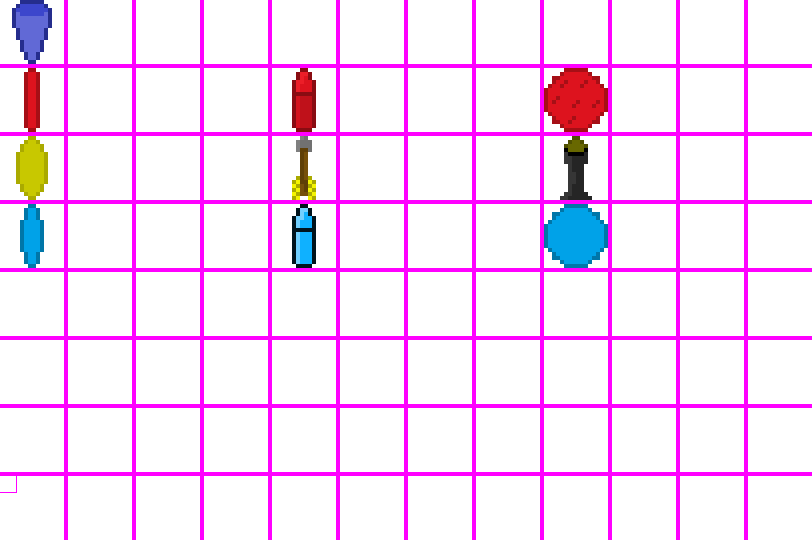
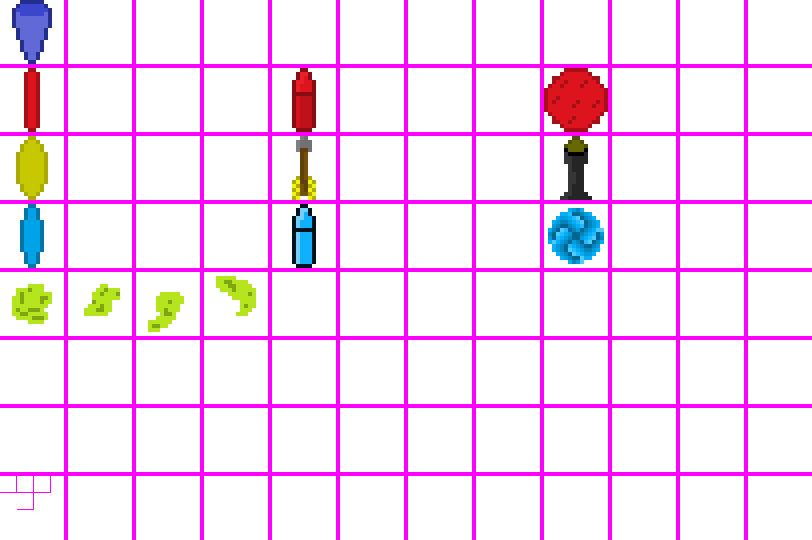
zombie attacks

diff --git a/app/index.html b/app/index.html
@@ -64,6 +64,7 @@
 	<script src="src/gameplay/entities/projectiles/weapon8B1Projectile.js"></script>
 	<script src="src/gameplay/entities/projectiles/weapon9B2Projectile.js"></script>
 	<script src="src/gameplay/entities/projectiles/weapon10B3Projectile.js"></script>
+	<script src="src/gameplay/entities/projectiles/monsterProjectiles/zombieBileProjecile.js"></script>
 	<script src="src/gameplay/entities/projectiles/projectileSpawner.js"></script>
 	<script src="src/gameplay/entities/particles/_particle.js"></script>
 	<script src="src/gameplay/entities/particles/bloodParticle.js"></script>
@@ -83,17 +84,19 @@
 	<script src="src/gameplay/entities/items/weapon.js"></script>
 	<script src="src/gameplay/entities/items/itemFactory.js"></script>
 	<!--	actions		-->
-	<script src="src/gameplay/actions/_weaponAction.js"></script>
-	<script src="src/gameplay/actions/weaponAction1N.js"></script>
-	<script src="src/gameplay/actions/weaponAction2R1.js"></script>
-	<script src="src/gameplay/actions/weaponAction3R2.js"></script>
-	<script src="src/gameplay/actions/weaponAction4R3.js"></script>
-	<script src="src/gameplay/actions/weaponAction5Y1.js"></script>
-	<script src="src/gameplay/actions/weaponAction6Y2.js"></script>
-	<script src="src/gameplay/actions/weaponAction7Y3.js"></script>
-	<script src="src/gameplay/actions/weaponAction8B1.js"></script>
-	<script src="src/gameplay/actions/weaponAction9B2.js"></script>
-	<script src="src/gameplay/actions/weaponAction10B3.js"></script>
+	<script src="src/gameplay/actions/_action.js"></script>
+	<script src="src/gameplay/actions/weaponActions/_weaponAction.js"></script>
+	<script src="src/gameplay/actions/weaponActions/weaponAction1N.js"></script>
+	<script src="src/gameplay/actions/weaponActions/weaponAction2R1.js"></script>
+	<script src="src/gameplay/actions/weaponActions/weaponAction3R2.js"></script>
+	<script src="src/gameplay/actions/weaponActions/weaponAction4R3.js"></script>
+	<script src="src/gameplay/actions/weaponActions/weaponAction5Y1.js"></script>
+	<script src="src/gameplay/actions/weaponActions/weaponAction6Y2.js"></script>
+	<script src="src/gameplay/actions/weaponActions/weaponAction7Y3.js"></script>
+	<script src="src/gameplay/actions/weaponActions/weaponAction8B1.js"></script>
+	<script src="src/gameplay/actions/weaponActions/weaponAction9B2.js"></script>
+	<script src="src/gameplay/actions/weaponActions/weaponAction10B3.js"></script>
+	<script src="src/gameplay/actions/monsterActions/zombieBileAttack.js"></script>
 	<!-- 	stages 		-->
 	<script src="src/gameplay/stage/stageLoader.js"></script>
 	<script src="src/gameplay/stage/stage.js"></script>

diff --git a/app/src/gameplay/entities/monsters/zombie.js b/app/src/gameplay/entities/monsters/zombie.js
@@ -9,6 +9,7 @@ class Zombie extends _Monster {
         this.hp = 20;
         this.defence = 0;
         this.speed = 0.025;
+        this.bileAttack = new ZombieBileAttack(this);
     }
 
     _onDamaged(d){
@@ -19,8 +20,21 @@ class Zombie extends _Monster {
     _onExpire(){
         super._onExpire();
         ParticleSpawner.createExplosion(ZombieGutsParticle, this.x, this.y, Util.randInt(5, 10));
-        ParticleSpawner.createExplosion(BloodParticle, this.x, this.y, Util.randInt(10, 20));
-        
+        ParticleSpawner.createExplosion(BloodParticle, this.x, this.y, Util.randInt(10, 20)); 
+    }
+
+    _doExist(thisEntity){
+        var p = StageManager.currentStage.player;
+        var dir = thisEntity.getDirectionToPoint(p.x, p.y);
+        var dist = thisEntity.getDistanceToPoint(p.x, p.y);
+        if(dist < 2.5) {
+            thisEntity.bileAttack.execute();
+        }
+        if(dist > 0.5) {
+            thisEntity.travel(dir);
+        }
+        thisEntity.turn(dir);
+        thisEntity.checkForInWall();
     }
 
 }

diff --git a/app/src/gameplay/entities/projectiles/weapon4R3Projectile.js b/app/src/gameplay/entities/projectiles/weapon4R3Projectile.js
@@ -9,7 +9,7 @@ class Weapon4R3Projectile extends _DamagingProjectile {
         this.speed = Util.randFloat(0.12, 0.16);
         this.minDmg = 1;
         this.maxDmg = 3;
-        this.duration = Util.randInt(50, 70);
+        this.duration = Util.randInt(40, 80);
         this.accuracy = 92;
         
         this.tileX = 8;
@@ -26,7 +26,7 @@ class Weapon4R3Projectile extends _DamagingProjectile {
 
     _onExpire(){
         super._onExpire();
-        ParticleSpawner.createExplosion(RedSparkParticle,  this.x, this.y, Util.randInt(1, 2));
+        ParticleSpawner.createExplosion(RedSparkParticle,  this.x, this.y, Util.randInt(3, 5));
     }
 
 }

diff --git a/app/src/gameplay/entities/projectiles/weapon10B3Projectile.js b/app/src/gameplay/entities/projectiles/weapon10B3Projectile.js
@@ -6,10 +6,10 @@ class Weapon10B3Projectile extends _DamagingProjectile {
         // super constructor
         super(parentEntity, direction, x, y);
 
-        this.speed = 0.08;
+        this.speed = 0.06;
         this.minDmg = 1;
         this.maxDmg = 4;
-        this.duration = 100;
+        this.duration = 110;
         this.accuracy = 98;
         
         this.tileX = 8;
@@ -21,7 +21,7 @@ class Weapon10B3Projectile extends _DamagingProjectile {
     }
 
     animate(){
-        this.rotate(10);
+        this.rotate(5);
         ParticleSpawner.createExplosion(CyanSparkParticle, this.x, this.y, Util.randInt(1, 2));
     }
 

diff --git a/app/src/gameplay/entities/projectiles/monsterProjectiles/zombieBileProjecile.js b/app/src/gameplay/entities/projectiles/monsterProjectiles/zombieBileProjecile.js
@@ -1,0 +1,20 @@
+"use strict";
+class ZombieBileProjectile extends _DamagingProjectile {
+
+    constructor(parentEntity, direction, x, y){
+        super(parentEntity, direction, x, y);
+
+        this.speed = 0.06;
+        this.minDmg = 2;
+        this.maxDmg = 5;
+        this.duration = 40;
+        this.accuracy = 80;
+        
+        this.tileX = Util.randInt(0, 3);
+        this.tileY = 4;
+        
+        this.collisionSize = 0.1;
+        this.displaySize = 0.4;
+        this.collidesPlayer = true;
+    }
+}

diff --git a/app/src/gameplay/actions/_action.js b/app/src/gameplay/actions/_action.js
@@ -1,14 +1,14 @@
 "use strict";
-class _WeaponAction{
+class _Action{
 
     // ==================== fields ====================
-    player;
+    user;
     cooldownDuration;
     isOnCooldown;
 
     // ==================== constructor ====================
-    constructor(player){
-        this.player = player;        
+    constructor(user){
+        this.user = user;        
         this.cooldownDuration = 250;
         this.isOnCooldown = false;
     }

diff --git a/app/src/gameplay/actions/monsterActions/zombieBileAttack.js b/app/src/gameplay/actions/monsterActions/zombieBileAttack.js
@@ -1,0 +1,15 @@
+"use strict";
+class ZombieBileAttack extends _Action {
+
+    constructor(user){
+        super(user);
+        this.cooldownDuration = 3000;
+    }
+
+    onSuccess(){
+        for(var i = 0; i < 8; i++){
+            ProjectileSpawner.spawn(ZombieBileProjectile, this.user, this.user.x, this.user.y, this.user.direction);
+        }
+    }
+
+}

diff --git a/app/src/gameplay/entities/projectiles/weapon3R2Projectile.js b/app/src/gameplay/entities/projectiles/weapon3R2Projectile.js
@@ -26,7 +26,7 @@ class Weapon3R2Projectile extends _DamagingProjectile {
 
     _onExpire(){
         super._onExpire();
-        ParticleSpawner.createExplosion(RedSparkParticle,  this.x, this.y, Util.randInt(5, 10));
+        ParticleSpawner.createExplosion(RedSparkParticle,  this.x, this.y, Util.randInt(8, 16));
     }
 
 }

diff --git a/app/src/gameplay/entities/projectiles/weapon6Y2Projectile.js b/app/src/gameplay/entities/projectiles/weapon6Y2Projectile.js
@@ -15,8 +15,8 @@ class Weapon6Y2Projectile extends _DamagingProjectile {
         this.tileX = 4;
         this.tileY = 2;
         
-        this.collisionSize = 0.1;
-        this.displaySize = 0.4;
+        this.collisionSize = 0.2;
+        this.displaySize = 0.8;
         this.collidesMonster = true;
     }
 

diff --git a/app/src/gameplay/entities/projectiles/weapon1NProjectile.js b/app/src/gameplay/entities/projectiles/weapon1NProjectile.js
@@ -15,8 +15,8 @@ class Weapon1NProjectile extends _DamagingProjectile {
         this.tileX = 0;
         this.tileY = 0;
         
-        this.collisionSize = 0.2;
-        this.displaySize = 0.6;
+        this.collisionSize = 0.1;
+        this.displaySize = 0.4;
         this.collidesMonster = true;
     }
 

diff --git a/app/src/gameplay/entities/projectiles/weapon5Y1Projectile.js b/app/src/gameplay/entities/projectiles/weapon5Y1Projectile.js
@@ -16,7 +16,7 @@ class Weapon5Y1Projectile extends _DamagingProjectile {
         this.tileY = 2;
         
         this.collisionSize = 0.1;
-        this.displaySize = 0.4;
+        this.displaySize = 0.3;
         this.collidesMonster = true;
     }
 

diff --git a/app/src/gameplay/entities/_entity.js b/app/src/gameplay/entities/_entity.js
@@ -226,4 +226,10 @@ class _Entity {
         return dir;
     }
 
+    getDistanceToPoint(x, y){
+        var dx = x - this.x;
+        var dy = y - this.y;
+        return Math.sqrt(dx*dx + dy*dy);
+    }
+
 }
